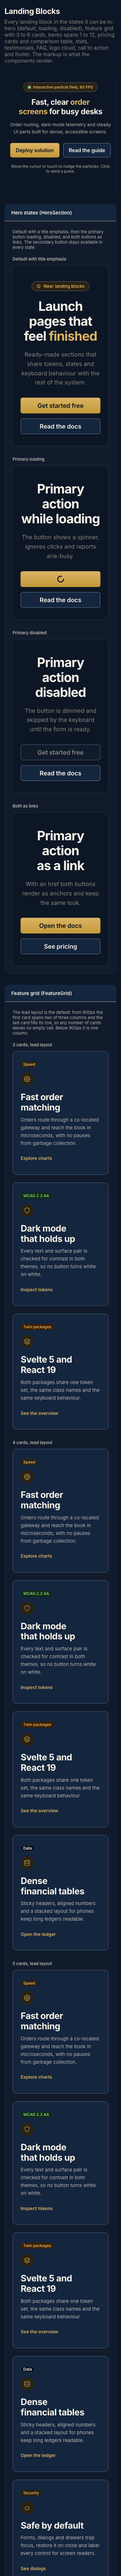
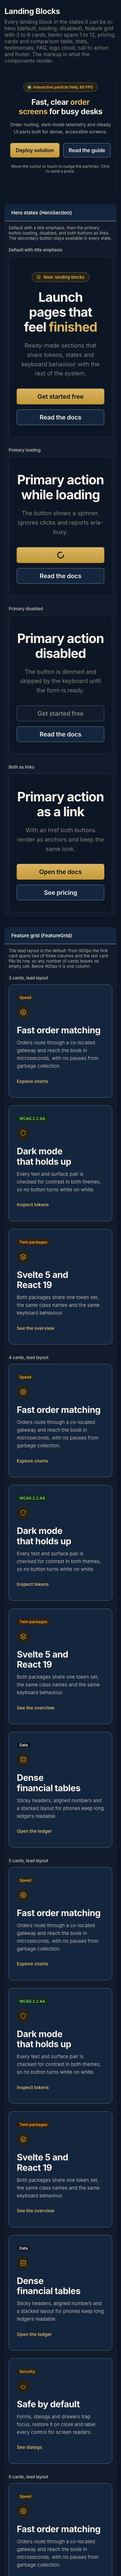
docs(F-039): refresh landing screenshots after the final fixes

diff --git a/.claude/refined_backlog/F-039-wave-4-landing-suite-hero-and-cta-depth/research/screens/README.md b/.claude/refined_backlog/F-039-wave-4-landing-suite-hero-and-cta-depth/research/screens/README.md
@@ -25,8 +25,9 @@ Every name exists at both widths in both themes except `drawer-open` (see below)
 Element shots (`landing-page-simulator`, blocks) are the element's own box, so their width is the hub content column minus
 padding (for example 347 or 936 px), not the nominal viewport width.
 
-Refreshed after the taste-review fixes (components and CSS, hub simulator): same 38 file names as before, none stale, none added;
-every file is under 1 MB (largest `landing-blocks-dark-1280x800-part1`, 0.95 MB).
+Refreshed after the final fixes (stats pill wraps, hub blocks stats padding, 479px breakpoint, FAQ copy): same 38 file names as before,
+none stale, none added; the 375px `landing-blocks-*-part4` closing strips are byte-identical and every other 375px page shot changed
+height or content; every file is under 1 MB (largest `landing-blocks-dark-1280x800-part1`, 0.95 MB).
 
 ## Known deviations
 
